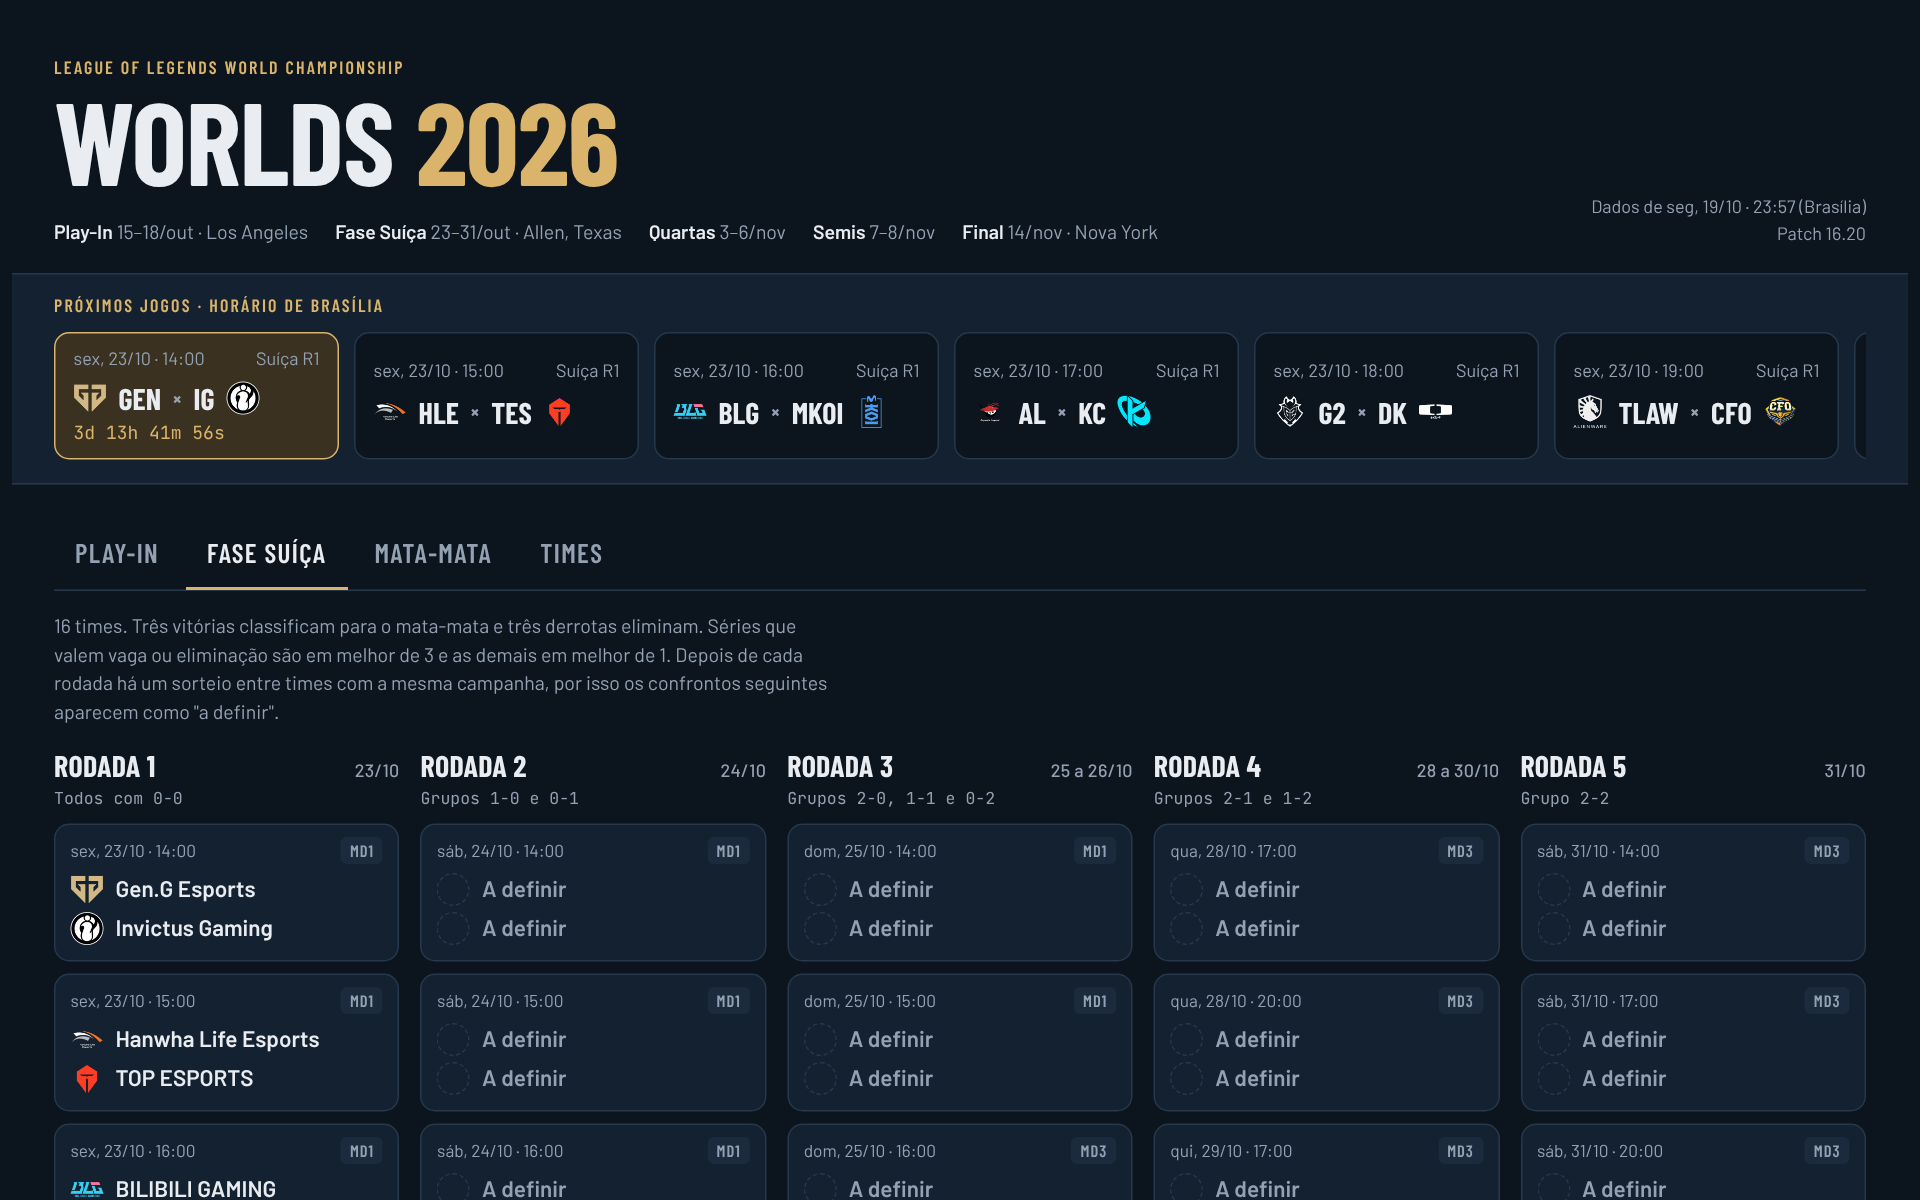
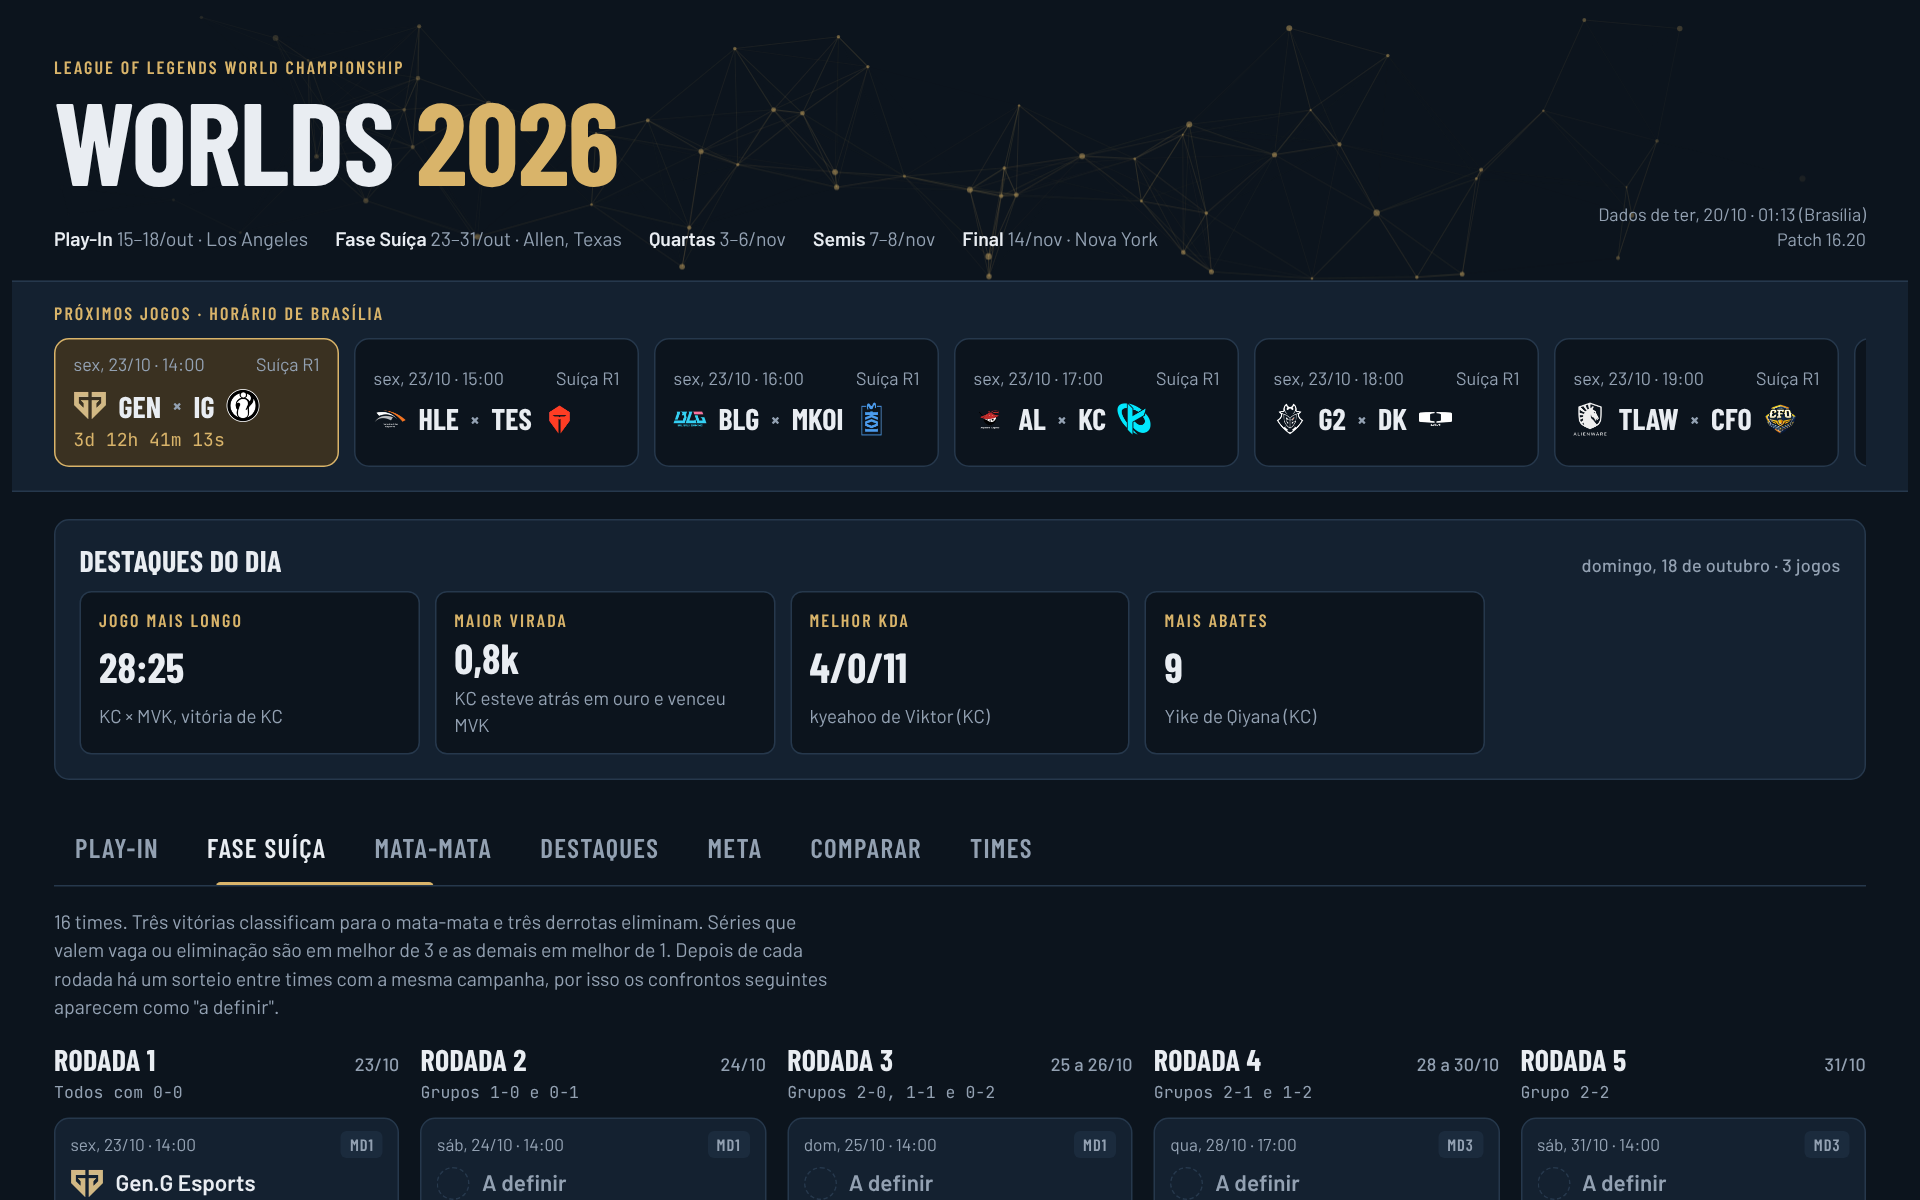
Atualiza o README com a API e as novidades do site
Inclui o painel do jogador, Meta, Comparar e chance de classificação.

diff --git a/README.md b/README.md
@@ -1,6 +1,6 @@
 # Central do Worlds 2026
 
-Site com as chaves, estatísticas e replays do Mundial de League of Legends 2026, em português e no horário de Brasília.
+Site e API com as chaves, estatísticas e replays do Mundial de League of Legends 2026, em português e no horário de Brasília.
 
 **Site:** https://gabriel00lima.github.io/worlds-2026-analytics/
 
@@ -10,7 +10,15 @@ Site com as chaves, estatísticas e replays do Mundial de League of Legends 2026
 
 Comecei esse projeto porque queria acompanhar o Worlds num lugar só: ver a chave, abrir um confronto e entender o que aconteceu no jogo sem precisar rever a transmissão inteira.
 
-A parte em Python busca os dados na API do LoL Esports, processa a linha do tempo de cada partida e gera uma página estática com tudo embutido. Clicando num confronto dá para ver a prévia, os números de cada jogador e um replay animado com os principais lances narrados.
+A parte em Python busca os dados na API do LoL Esports, processa a linha do tempo de cada partida e gera um site estático com tudo embutido. Os mesmos dados vão para um banco SQL e ficam disponíveis numa API REST.
+
+No site dá para:
+
+- navegar pelo Play-In, pela Fase Suíça e pelo mata-mata, com a chance de classificação de cada time na Suíça;
+- abrir um jogo e assistir aos principais lances num mapa animado, com narração;
+- clicar em qualquer jogador e ver como ele foi naquele jogo, no torneio e na solo queue;
+- ver o meta do torneio (campeões mais escolhidos e banidos), comparar dois jogadores e conferir os destaques do dia;
+- deixar palpites e adicionar os jogos na agenda.
 
 ![Replay de Karmine Corp x MVK](docs/img/replay.png)
 
@@ -22,6 +30,7 @@ src/worlds2026/
   processamento.py  transforma os quadros do feed em lances, série de ouro e estatísticas
   pipeline.py       as etapas da coleta, da agenda até o site pronto
   site.py           junta o template, o CSS, o JS e os dados num único index.html
+  api/              API REST com FastAPI e SQLAlchemy
   cli.py            linha de comando
 web/                o site: index.html, estilo.css e app.js
 data/               curiosidades dos confrontos e contas de solo queue
@@ -36,17 +45,37 @@ O feed da Riot entrega o estado de cada jogo de 10 em 10 segundos, mas não diz 
 
 Os clientes em `fontes/` cuidam da parte chata: paginação, novas tentativas quando a API falha e cache em disco, para que rodar de novo só baixe o que é novo. Os quadros de cada jogo são buscados em paralelo. Se houver uma `RIOT_API_KEY` no ambiente, entram também as partidas de solo queue dos jogadores.
 
-O site é HTML, CSS e JavaScript sem framework. O `site.py` embute tudo num único `docs/index.html`, que o GitHub Pages publica.
+O site é HTML, CSS e JavaScript sem framework, com animações em GSAP. O `site.py` embute tudo num único `docs/index.html`, que o GitHub Pages publica.
 
-![Prévia de Gen.G x Invictus Gaming](docs/img/previa.png)
+![Painel do jogador](docs/img/jogador.png)
+
+## API
+
+A API carrega os dados da última coleta num banco (SQLite por padrão, ou o que estiver em `DATABASE_URL`) e responde em JSON. A documentação interativa fica em `/docs`.
+
+| Rota | O que devolve |
+|---|---|
+| `GET /partidas` | séries do torneio, com filtros por fase, estado e time |
+| `GET /partidas/{id}` | a série com cada jogo, as estatísticas dos 10 jogadores e os bans |
+| `GET /times` e `/times/{sigla}` | campanha, elenco, campeões mais jogados e mais banidos pelo time e contra ele |
+| `GET /jogadores/{id}` | desempenho no torneio, campeões no torneio e na solo queue, elo |
+| `GET /estatisticas/jogadores` | ranking por abates, KDA ou dano |
+| `GET /estatisticas/campeoes` | campeões por presença (escolhas + bans), com vitórias |
 
 ## Rodando
 
 ```bash
 pip install -e ".[dev]"
-python -m worlds2026            # coleta os dados e atualiza docs/index.html
-python -m worlds2026 --so-site  # só regera o site com o que já está em cache
+python -m worlds2026              # coleta os dados e atualiza docs/index.html
+python -m worlds2026 --so-site    # só regera o site com o que já está em cache
+python -m worlds2026 api          # carrega o banco e sobe a API em http://localhost:8000
 pytest --cov
+```
+
+Ou com Docker, depois de rodar a coleta uma vez:
+
+```bash
+docker compose up
 ```
 
 O CI roda `ruff`, `mypy` e os testes a cada push.
